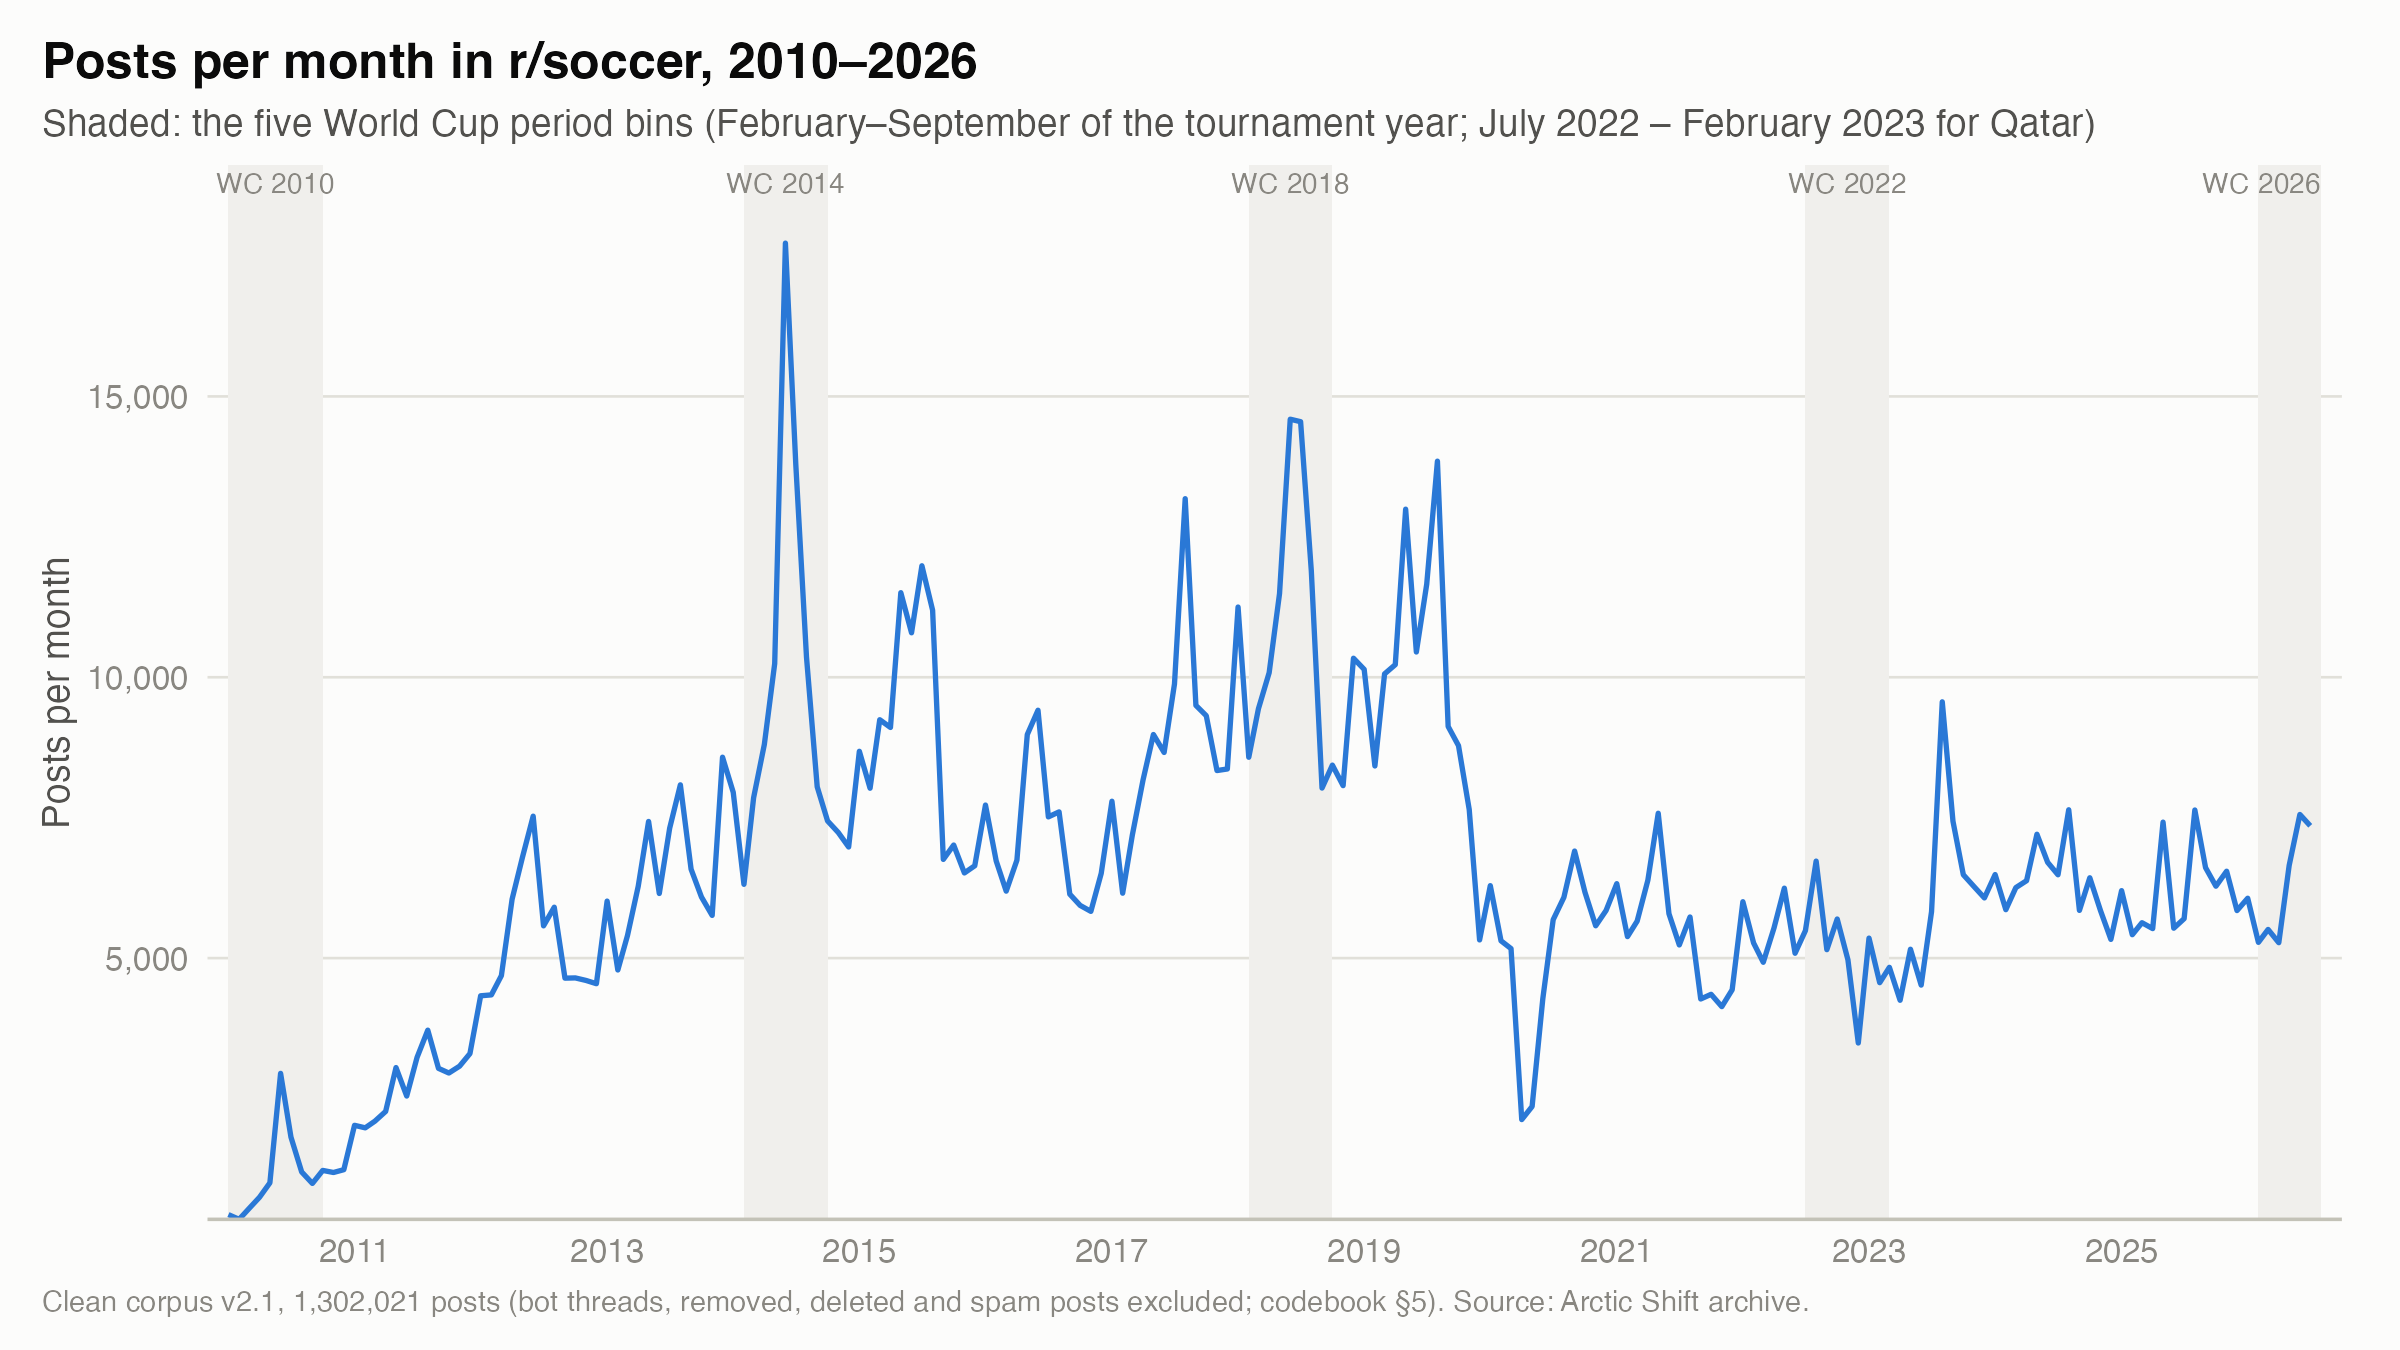
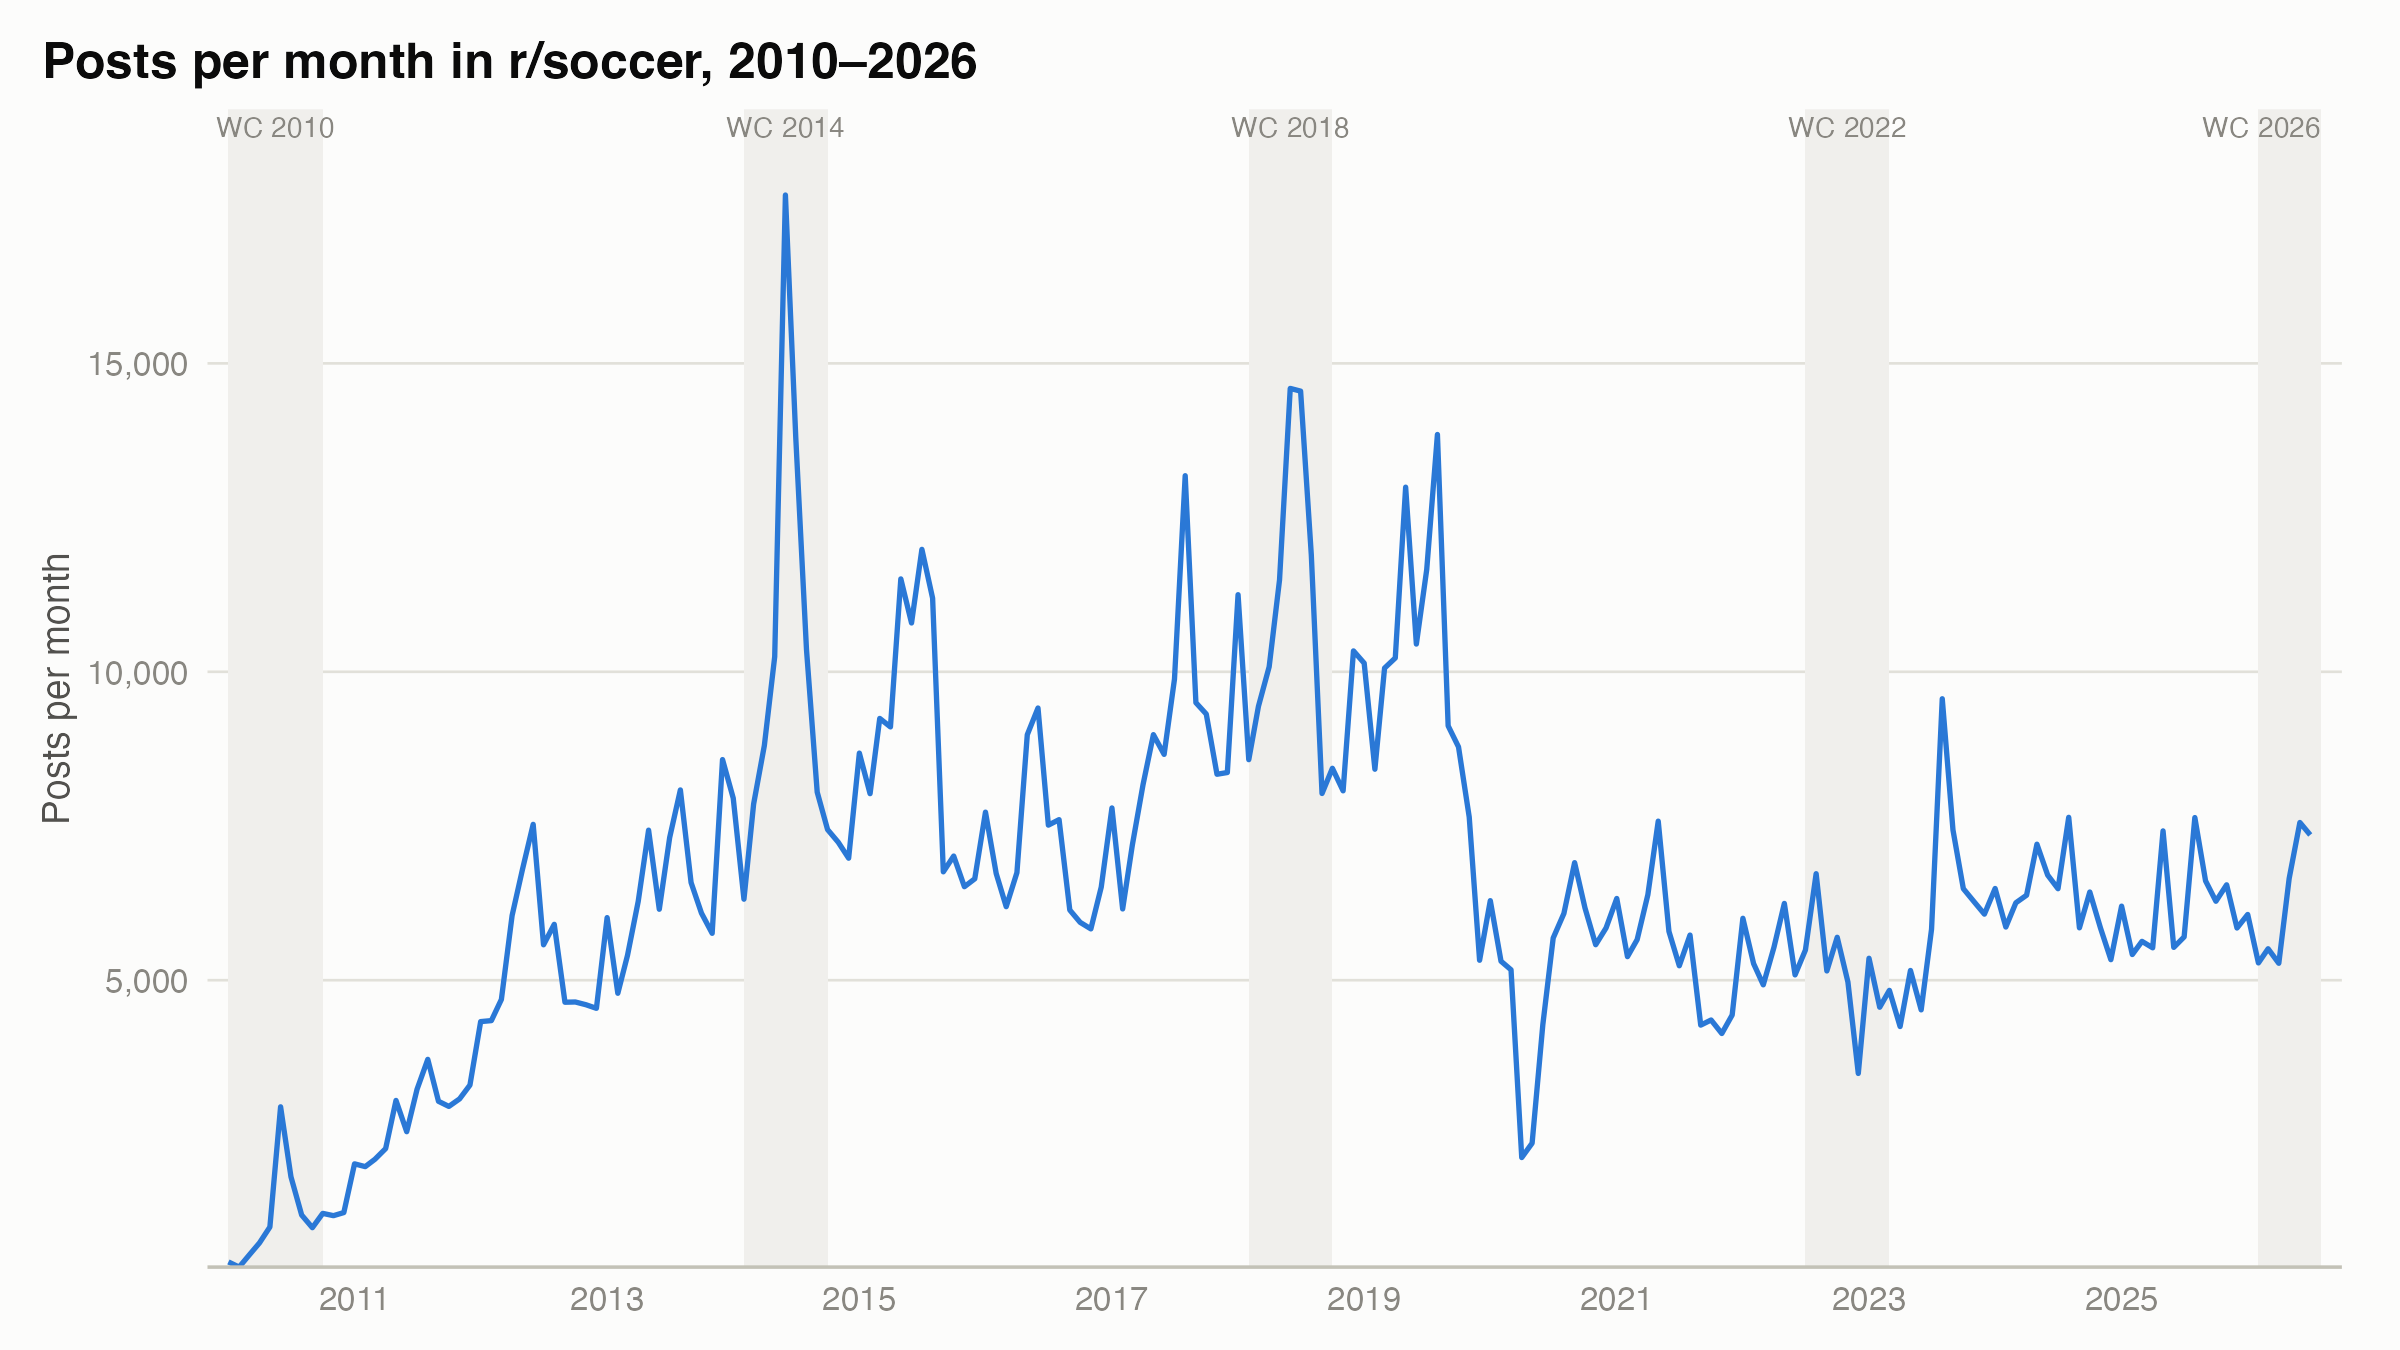
Figure A1: bold title only, subtitle and caption removed (author's request, 2026-10-28)

diff --git a/docs/session-10_2026-10-28/00_approvals.md b/docs/session-10_2026-10-28/00_approvals.md
@@ -127,7 +127,7 @@ He referred to reference figures, but none came through with the message, so the
 
 The four category columns are shares of the political posts.
 
-**Titles only (Alan Nemirovski, 2026-10-28, after seeing the figures).** The E figures carry their bold title only: subtitles and captions were removed. The populations and reading notes that the captions held stay in the script header (`code/14-worldcup-figures.R`), in `results/descriptives/README.md` and in this section, for the chapter text. They cover:
+**Titles only (Alan Nemirovski, 2026-10-28, after seeing the figures).** The E figures carry their bold title only: subtitles and captions were removed. The same was then done for figure A1 (`code/11-descriptives.R`). The other A–D figures keep theirs. The populations and reading notes that the captions held stay in the script header (`code/14-worldcup-figures.R`), in `results/descriptives/README.md` and in this section, for the chapter text. They cover:
 - who counts as political and over which denominator;
 - the shaded tournament weeks and the 95 % intervals of E2;
 - the crawl-time subscriber counts, which start in March 2018;
